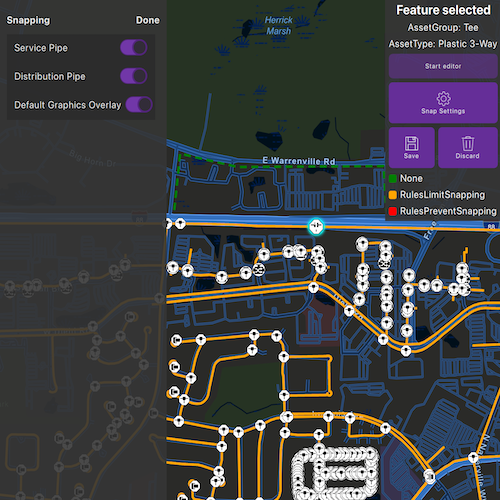
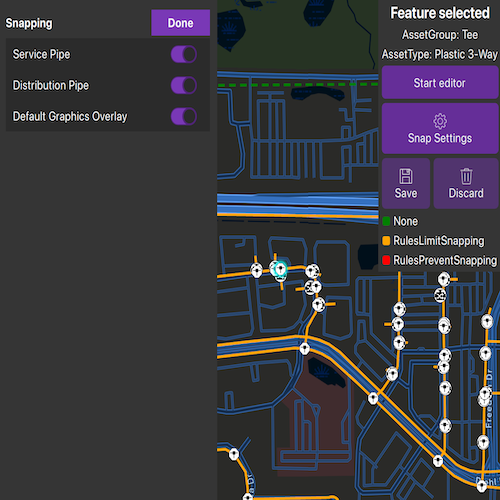
SnapGeometryEditsWithRules(Edit data) - increased font size. button usage in snap settings menu.

diff --git a/CppSamples/EditData/SnapGeometryEditsWithRules/SnapGeometryEditsWithRules.qml b/CppSamples/EditData/SnapGeometryEditsWithRules/SnapGeometryEditsWithRules.qml
@@ -46,13 +46,12 @@ Item {
         width: textItem.width + 20
         height: textItem.height + 10
         color: palette.base
-        opacity: .9
 
         Label {
             id: textItem
             anchors.centerIn: parent
             text: qsTr("Tap a point feature to edit.")
-            font.pixelSize: 16
+            font.pixelSize: 18
             font.bold: true
         }
     }
@@ -65,7 +64,6 @@ Item {
 
         background: Rectangle {
             color: palette.base
-            opacity: .9
         }
         contentItem: ColumnLayout {
             id: columns
@@ -84,7 +82,7 @@ Item {
                     Layout.alignment: Qt.AlignHCenter | Qt.AlignVCenter
                     Layout.columnSpan: 2
                     text: qsTr("Feature selected")
-                    font.pixelSize: 16
+                    font.pixelSize: 18
                     font.bold: true
                 }
 
@@ -93,7 +91,7 @@ Item {
                     Layout.alignment: Qt.AlignHCenter | Qt.AlignVCenter
                     Layout.columnSpan: 2
                     text: qsTr("AssetGroup: ")
-                    font.pixelSize: 12
+                    font.pixelSize: 14
                 }
 
                 Label {
@@ -101,7 +99,7 @@ Item {
                     Layout.alignment: Qt.AlignHCenter | Qt.AlignVCenter
                     Layout.columnSpan: 2
                     text: qsTr("AssetType: ")
-                    font.pixelSize: 12
+                    font.pixelSize: 14
                 }
 
                 Connections {
@@ -169,7 +167,7 @@ Item {
                 }
                 Label {
                     text: qsTr("None")
-                    font.pixelSize: 12
+                    font.pixelSize: 14
                 }
 
                 Rectangle {
@@ -180,7 +178,7 @@ Item {
                 }
                 Label {
                     text: qsTr("RulesLimitSnapping")
-                    font.pixelSize: 12
+                    font.pixelSize: 14
                 }
 
                 Rectangle {
@@ -191,7 +189,7 @@ Item {
                 }
                 Label {
                     text: qsTr("RulesPreventSnapping")
-                    font.pixelSize: 12
+                    font.pixelSize: 14
                 }
             }
         }
@@ -204,10 +202,9 @@ Item {
             top: parent.top
             bottom: parent.bottom
         }
-        width: 220
+        width: 300
         visible: false
         color: palette.base
-        opacity: .9
 
         Connections {
             target: snapGeometryEditsWithRulesModel
@@ -227,31 +224,30 @@ Item {
 
             header: ColumnLayout {
                 id: snappingColumn
-                Layout.minimumWidth: optionPanel.width
+                width: snapSourceView.width
                 spacing: 0
+
                 RowLayout {
-                    Layout.minimumWidth: optionPanel.width
+                    Layout.fillWidth: true
                     Layout.minimumHeight: 35
+                    spacing: 10
 
                     Label {
                         Layout.alignment: Qt.AlignLeft
                         Layout.fillWidth: true
-                        Layout.minimumWidth: optionPanel.width * 0.75
                         text: qsTr("Snapping")
-                        font.pixelSize: 12
+                        font.pixelSize: 14
                         font.bold: true
                     }
 
-                    Label {
-                        Layout.alignment: Qt.AlignRight
-                        Layout.fillWidth: true
-                        Layout.minimumWidth: optionPanel.width * 0.25
+                    Button {
                         text: qsTr("Done")
-                        font.pixelSize: 12
+                        Layout.alignment: Qt.AlignRight
+                        font.pixelSize: 14
                         font.bold: true
-                        MouseArea {
-                            anchors.fill: parent
-                            onClicked: optionPanel.visible = false;
+
+                        onClicked: {
+                            optionPanel.visible = false
                         }
                     }
                 }
@@ -261,39 +257,34 @@ Item {
 
             delegate: Item {
                 height: 35
-                width: optionPanel.width
-                id:delegate
+                width: snapSourceView.width
+
                 Rectangle {
                     id: wrapper
                     color: palette.mid
-                    width: snapSourceView.width - (snapSourceView.anchors.margins / 2)
-                    height: delegate.height
-                    anchors {
-                        margins: 15
-                    }
+                    width: parent.width
+                    height: parent.height
 
                     RowLayout {
-                        id : row
-                        Layout.fillWidth: true
-                        Layout.minimumWidth: optionPanel.width
-                        width: wrapper.width
+                        anchors.fill: parent
+                        anchors.leftMargin: 10
+                        anchors.rightMargin: 10
+                        spacing: 10
 
                         Label {
-                            Layout.alignment: Qt.AlignLeft
+                            Layout.alignment: Qt.AlignVCenter
                             Layout.fillWidth: true
-                            Layout.minimumWidth: optionPanel.width / 2
                             text: name
-                            font.pixelSize: 12
-                            Layout.leftMargin: 10
+                            font.pixelSize: 14
+                            elide: Text.ElideRight
                         }
 
                         Switch {
-                            Layout.alignment: Qt.AlignRight
-                            Layout.fillWidth: true
+                            Layout.alignment: Qt.AlignVCenter | Qt.AlignRight
                             checked: isEnabled
                             onCheckedChanged: {
                                 if (isEnabled !== checked) {
-                                    isEnabled = checked; // Update only if there's a difference
+                                    isEnabled = checked;
                                 }
                             }
                         }

diff --git a/CppSamples/EditData/SnapGeometryEditsWithRules/GeometryEditorButton.qml b/CppSamples/EditData/SnapGeometryEditsWithRules/GeometryEditorButton.qml
@@ -61,7 +61,7 @@ RoundButton {
             horizontalCenter: parent.horizontalCenter
         }
         text: buttonName
-        font.pixelSize: 8
+        font.pixelSize: 14
         color: "#F8F8F8"
     }
 }
